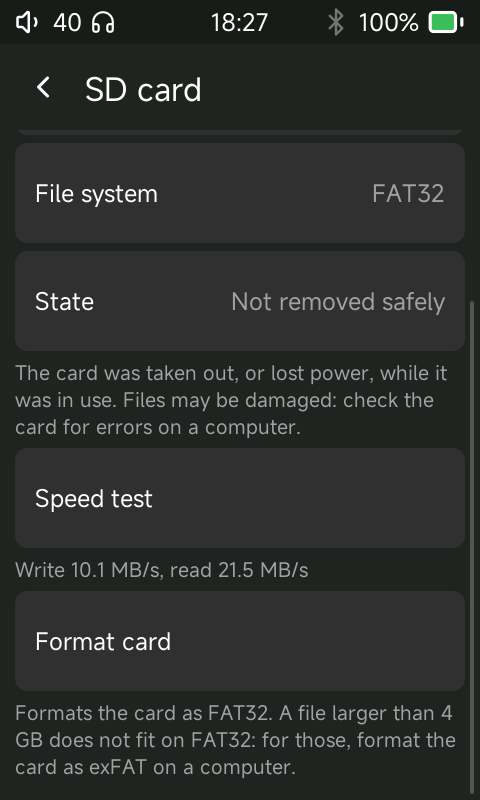
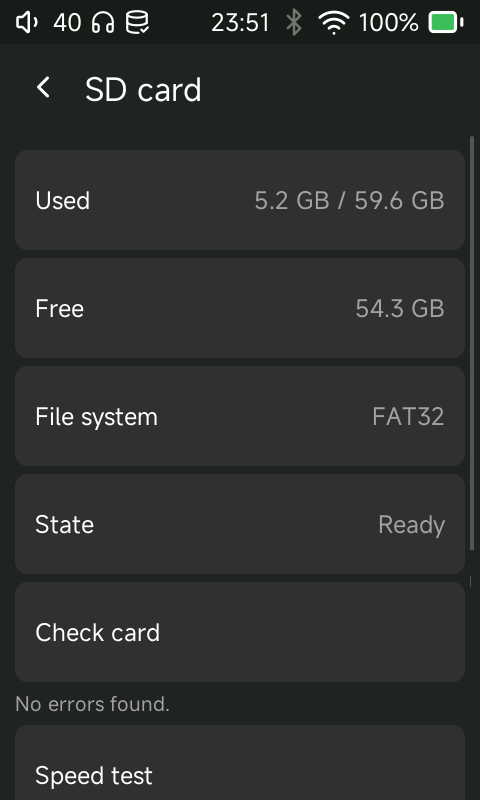
README: the SD card screenshot shows Check card; Hindi among the scripts shown

diff --git a/README.md b/README.md
@@ -47,7 +47,7 @@ every format, real streaming, video, a VU meter that moves with the music, and n
 <b>VU dials.</b> Two needles and a held peak mark over the cover. Tap for bars or a ten-band spectrum.
 </td>
 <td width="50%" align="center" valign="top">
-<img src="docs/screenshots/sd-card.png" width="62%" alt="The SD card page: file system, state, speed test and format"><br>
+<img src="docs/screenshots/sd-card.png" width="62%" alt="The SD card page: file system, state, Check card with its result, and the speed test"><br>
 <b>SD card.</b> File system, a warning when the card was pulled out unsafely, a check for errors, a speed test with its result, and Format.
 </td>
 </tr>
@@ -173,7 +173,7 @@ The short version: it plays every format worth owning, streams, reads you books,
 - **Boot logo** and **screensaver** from your own pictures.
 - **Control centre**: pull down from the status bar for brightness and a row of switches you choose and order yourself.
 - **Remap every button**, add double-click actions, and jump back or forward inside a track from the wired remote.
-- **Twelve interface languages**, eleven keyboard layouts including a T9 keypad and Japanese kana input.
+- **Twelve interface languages**, eleven keyboard layouts including a T9 keypad and Japanese kana input. Titles and subtitles in Korean, Thai, Arabic, Hebrew and Hindi are shown too (Hindi with its letters unjoined).
 - Text size, rounded corners, where the clock sits, 180° rotation, double tap to wake on the R3 Pro II.
 
 ### 🔋 Power and care
